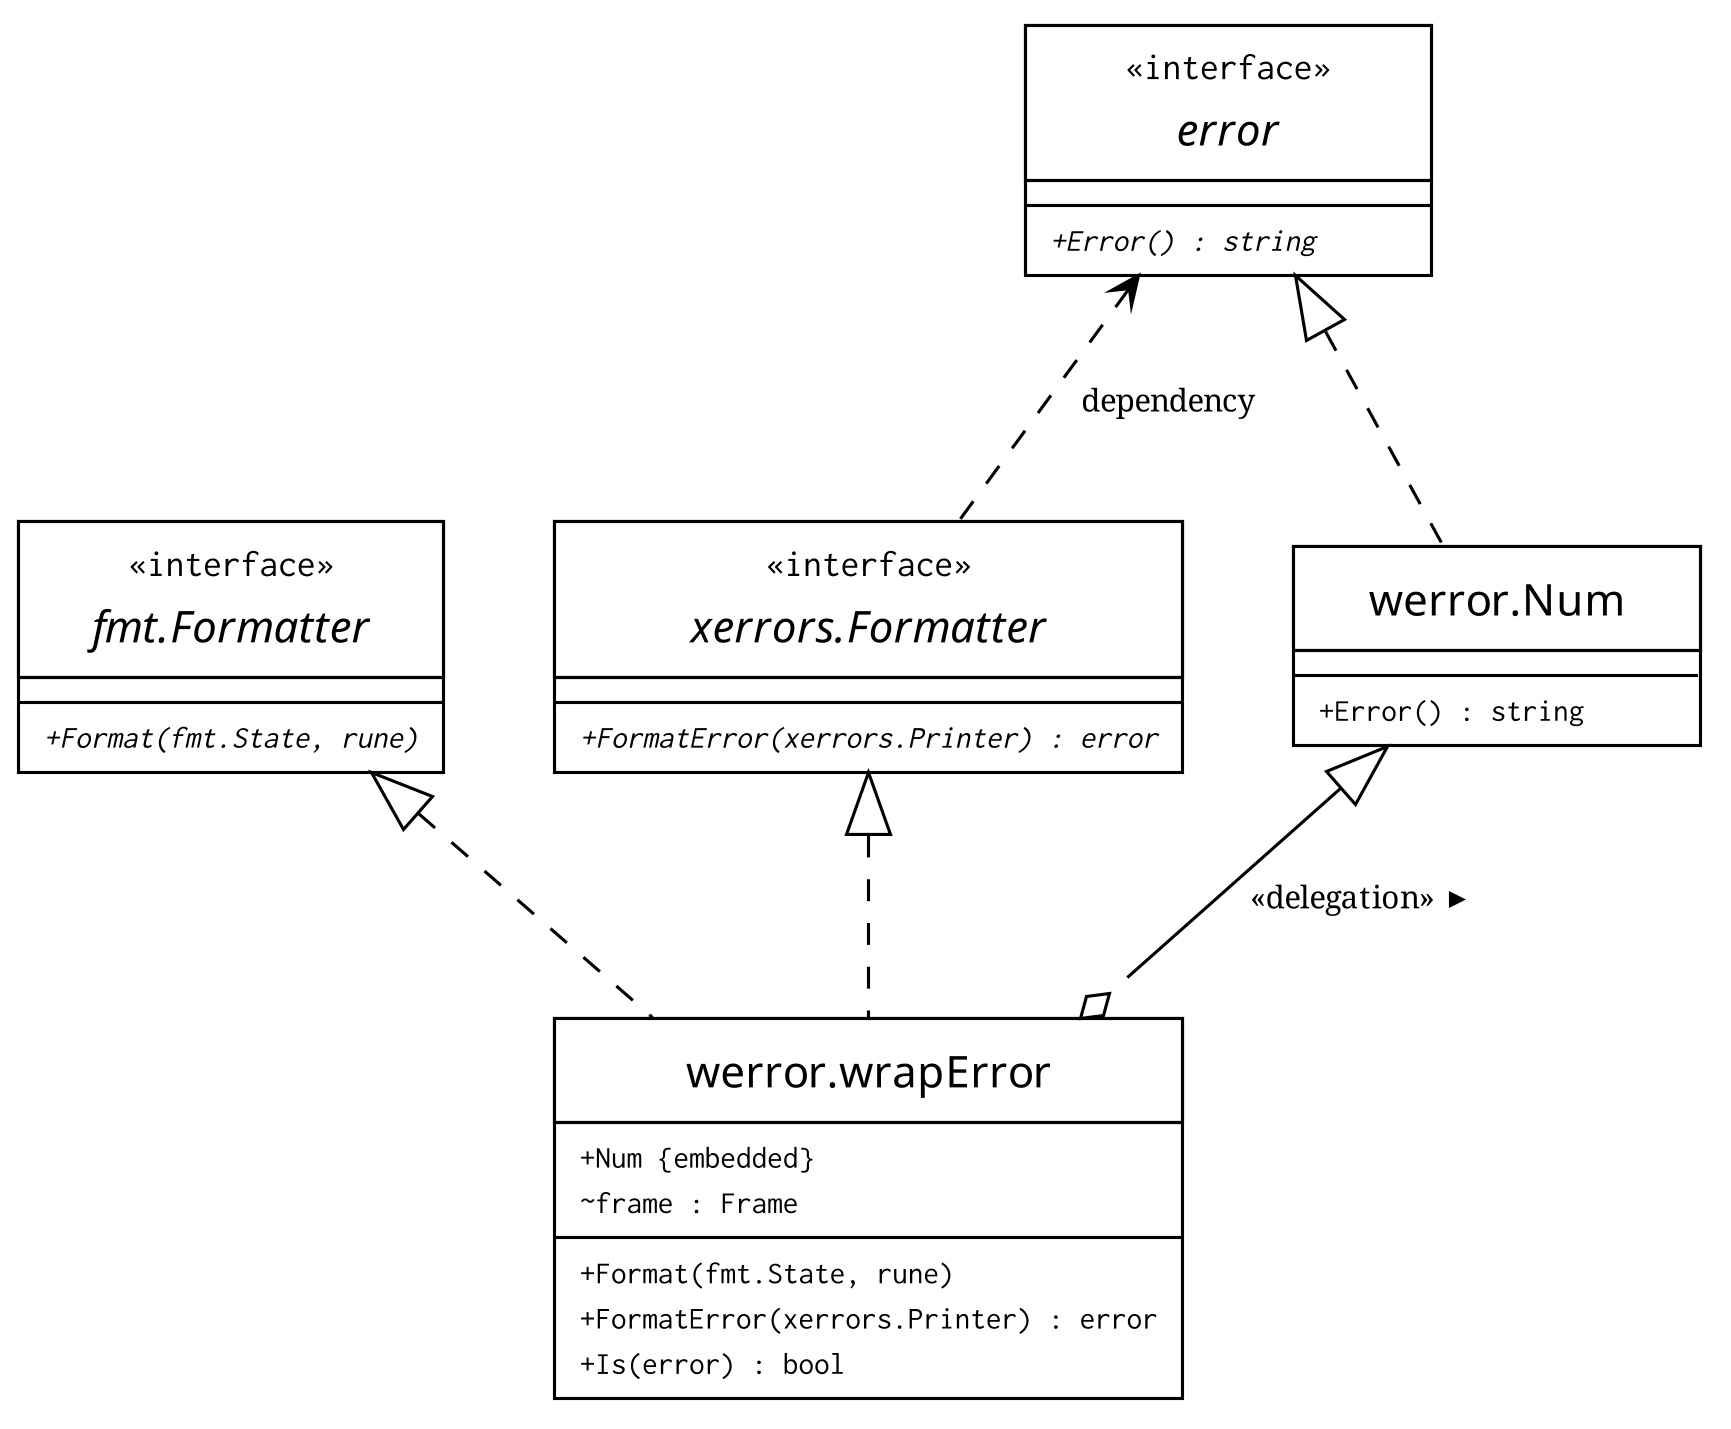
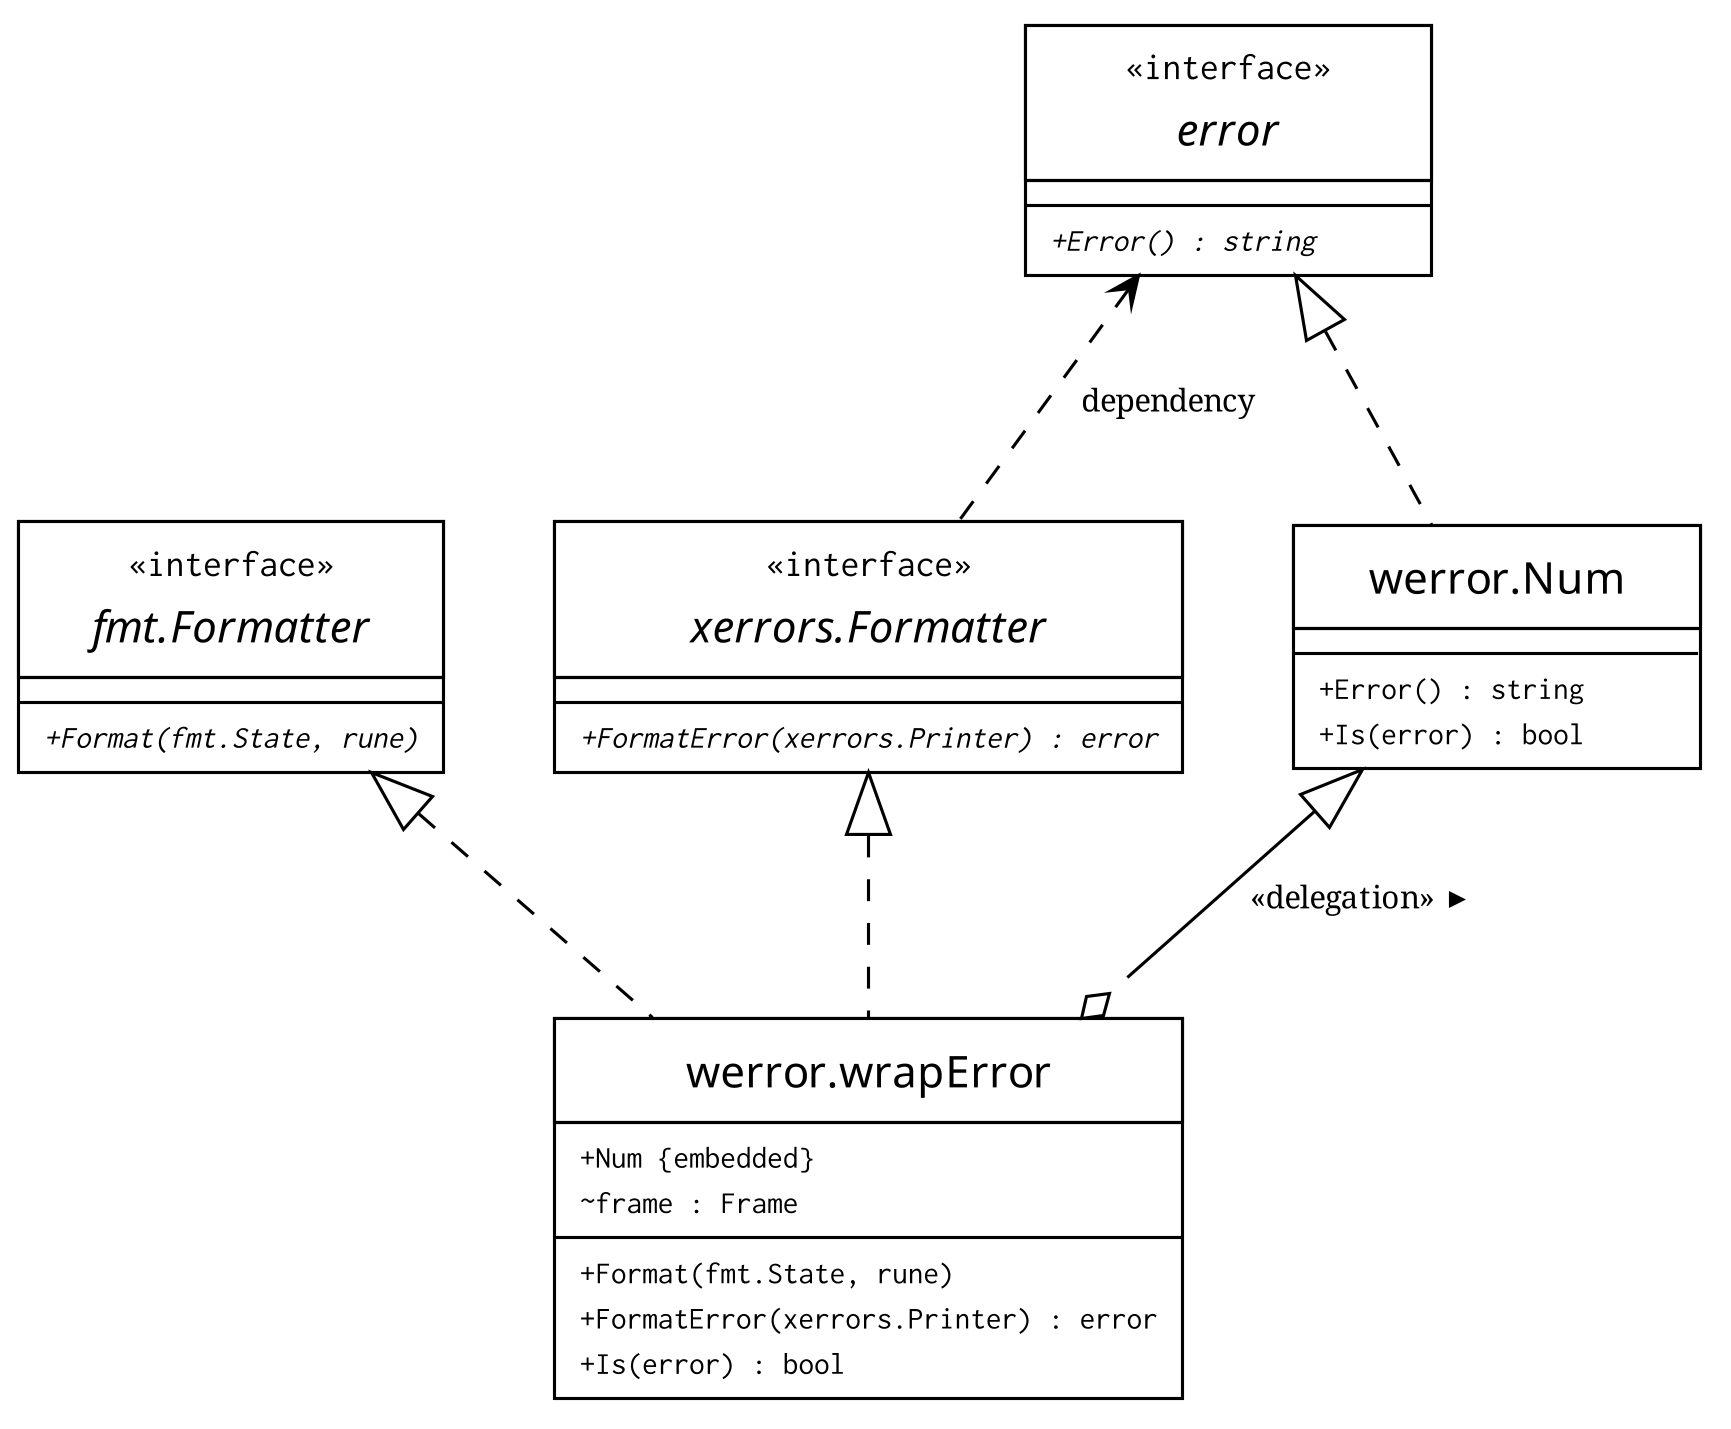
Publish (auto commit in 2019-02-24T22:14:40+09:00)

Changed region(s): [[0.7487, 0.3695, 0.9983, 0.585]]

diff --git a/golang/error-handling-again/index.html b/golang/error-handling-again/index.html
@@ -130,7 +130,7 @@
 	"keywords": "golang, error, programming, engineering, design",
 	"image": "https://text.baldanders.info/images/attention/go-logo_blue.png",
 	"datePublished": "2019-02-24T15:57:44+09:00",
-	"dateModified": "2019-02-24T18:52:55+09:00",
+	"dateModified": "2019-02-24T22:13:55+09:00",
 	"publisher": {
 		"@id": "https://text.baldanders.info/#org"
 	},
@@ -349,11 +349,20 @@ error instance 1:
 <p>などとすれば定義された error 値を使って <code>werror.New()</code> 関数の起動位置で error インスタンスを生成することが出来る。
 ただし，このままでは <a href="https://godoc.org/golang.org/x/xerrors" title="xerrors - GoDoc"><code>xerrors</code></a><code>.Is()</code> 関数によるインスタンスの等値性を正しく検証できない。</p>
 
-<p>そこで <code>wrapError</code> に以下の関数を追加する。</p>
-<div class="highlight"><pre class="chroma"><code class="language-go" data-lang="go"><span class="kd">func</span> <span class="p">(</span><span class="nx">we</span> <span class="o">*</span><span class="nx">wrapError</span><span class="p">)</span> <span class="nf">Is</span><span class="p">(</span><span class="nx">target</span> <span class="kt">error</span><span class="p">)</span> <span class="kt">bool</span> <span class="p">{</span>
-    <span class="k">if</span> <span class="nx">we</span> <span class="o">==</span> <span class="kc">nil</span> <span class="o">||</span> <span class="nx">target</span> <span class="o">==</span> <span class="kc">nil</span> <span class="p">{</span>
-        <span class="k">return</span> <span class="nx">we</span> <span class="o">==</span> <span class="nx">target</span>
-    <span class="p">}</span>
+<p>そこで <code>Num</code> および <code>wrapError</code> に以下の関数を追加する。</p>
+<div class="highlight"><pre class="chroma"><code class="language-go" data-lang="go"><span class="kd">func</span> <span class="p">(</span><span class="nx">n</span> <span class="nx">Num</span><span class="p">)</span> <span class="nf">Is</span><span class="p">(</span><span class="nx">target</span> <span class="kt">error</span><span class="p">)</span> <span class="kt">bool</span> <span class="p">{</span>
+	<span class="kd">var</span> <span class="nx">t1</span> <span class="o">*</span><span class="nx">wrapError</span>
+	<span class="k">if</span> <span class="nx">xerrors</span><span class="p">.</span><span class="nf">As</span><span class="p">(</span><span class="nx">target</span><span class="p">,</span> <span class="o">&amp;</span><span class="nx">t1</span><span class="p">)</span> <span class="p">{</span>
+		<span class="k">return</span> <span class="nx">n</span> <span class="o">==</span> <span class="nx">t1</span><span class="p">.</span><span class="nx">Num</span>
+	<span class="p">}</span>
+	<span class="kd">var</span> <span class="nx">t2</span> <span class="nx">Num</span>
+	<span class="k">if</span> <span class="nx">xerrors</span><span class="p">.</span><span class="nf">As</span><span class="p">(</span><span class="nx">target</span><span class="p">,</span> <span class="o">&amp;</span><span class="nx">t2</span><span class="p">)</span> <span class="p">{</span>
+		<span class="k">return</span> <span class="nx">n</span> <span class="o">==</span> <span class="nx">t2</span>
+	<span class="p">}</span>
+	<span class="k">return</span> <span class="kc">false</span>
+<span class="p">}</span>
+
+<span class="kd">func</span> <span class="p">(</span><span class="nx">we</span> <span class="o">*</span><span class="nx">wrapError</span><span class="p">)</span> <span class="nf">Is</span><span class="p">(</span><span class="nx">target</span> <span class="kt">error</span><span class="p">)</span> <span class="kt">bool</span> <span class="p">{</span>
     <span class="kd">var</span> <span class="nx">t1</span> <span class="o">*</span><span class="nx">wrapError</span>
     <span class="k">if</span> <span class="nx">xerrors</span><span class="p">.</span><span class="nf">As</span><span class="p">(</span><span class="nx">target</span><span class="p">,</span> <span class="o">&amp;</span><span class="nx">t1</span><span class="p">)</span> <span class="p">{</span>
         <span class="k">return</span> <span class="nx">we</span><span class="p">.</span><span class="nx">Num</span> <span class="o">==</span> <span class="nx">t1</span><span class="p">.</span><span class="nx">Num</span>
@@ -364,7 +373,7 @@ error instance 1:
     <span class="p">}</span>
     <span class="k">return</span> <span class="kc">false</span>
 <span class="p">}</span></code></pre></div>
-<p>これで等値演算子 <code>==</code> の代わりに <code>wrapError.Is()</code> 関数がインスタンスの等値性をチェックしてくれる。</p>
+<p>これで等値演算子 <code>==</code> の代わりに <code>Num.Is()</code> および <code>wrapError.Is()</code> 関数がインスタンスの等値性をチェックしてくれる。</p>
 
 <p>この <code>werror</code> パッケージのクラス図はこんな感じかな。</p>
 

diff --git a/golang/xerrors/index.html b/golang/xerrors/index.html
@@ -131,7 +131,7 @@
 	"keywords": "golang, programming, error",
 	"image": "https://text.baldanders.info/images/attention/go-logo_blue.png",
 	"datePublished": "2019-02-23T22:31:17+09:00",
-	"dateModified": "2019-02-24T18:52:55+09:00",
+	"dateModified": "2019-02-24T22:13:55+09:00",
 	"publisher": {
 		"@id": "https://text.baldanders.info/#org"
 	},
@@ -679,7 +679,7 @@ Error in fileOpen():
 <ol>
 <li id="fn:wrap1">なんでこんなヘンテコな仕様になっているかというと Go 1.13 で  <a href="https://godoc.org/golang.org/x/xerrors" title="xerrors - GoDoc"><code>xerrors</code></a><code>.Errorf()</code> 関数を  <a href="https://golang.org/pkg/fmt/" title="fmt - The Go Programming Language"><code>fmt</code></a><code>.Errorf()</code> 関数に統合する予定があるからだそうだ。なお <a href="https://godoc.org/golang.org/x/xerrors" title="xerrors - GoDoc"><code>xerrors</code></a><code>.Errorf()</code> 関数では error インスタンスをひとつしかラッピングできない。複数の error インスタンスをまとめてラッピングしたいなら独自の型（クラス）を定義する必要があるだろう。それでも独自型をフルスクラッチで組むよりは簡単だろうけど。
  <a class="footnote-return" href="#fnref:wrap1"><sup>[return]</sup></a></li>
-<li id="fn:is1"><a href="https://golang.org/" title="The Go Programming Language">Go 言語</a>では <code>==</code> は等値演算子（equality operator）だが error インスタンスはポインタ値で表すことが多く，その場合は <code>==</code> 演算子もポインタ値を比較することになり実質的に error インスタンスの等価性（equivalence）を調べていることになる。 <a href="https://golang.org/" title="The Go Programming Language">Go 言語</a>の interface 型は変数がインスタンスそのものかインスタンスへの参照（ポインタ値）かを隠蔽してしまうため，等値か等価かを問題にする際には注意が必要である。
+<li id="fn:is1"><a href="https://golang.org/" title="The Go Programming Language">Go 言語</a>では <code>==</code> は等値演算子（equality operator）だが error インスタンスはポインタ値で表すことが多く，その場合は <code>==</code> 演算子もポインタ値を比較することになり，実質的に error インスタンスの同一性（identity）を調べていることになる。 <a href="https://golang.org/" title="The Go Programming Language">Go 言語</a>の interface 型は変数がインスタンスそのものかインスタンスへの参照（ポインタ値）かを隠蔽してしまうため，等値か同一かを問題にする際には注意が必要である。
  <a class="footnote-return" href="#fnref:is1"><sup>[return]</sup></a></li>
 <li id="fn:license1">ちなみに <a href="https://godoc.org/golang.org/x/xerrors" title="xerrors - GoDoc">golang.org/x/xerrors</a> は BSD ライセンス下で利用できる。
  <a class="footnote-return" href="#fnref:license1"><sup>[return]</sup></a></li>
